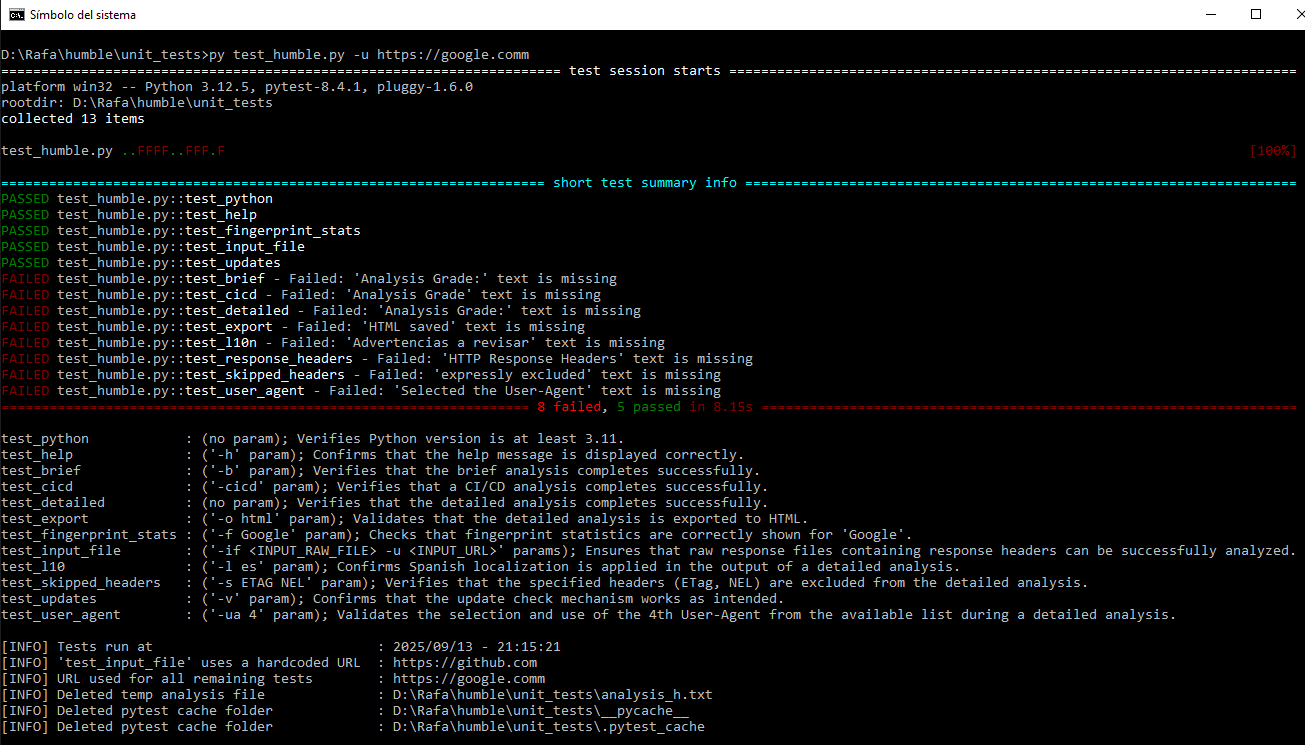
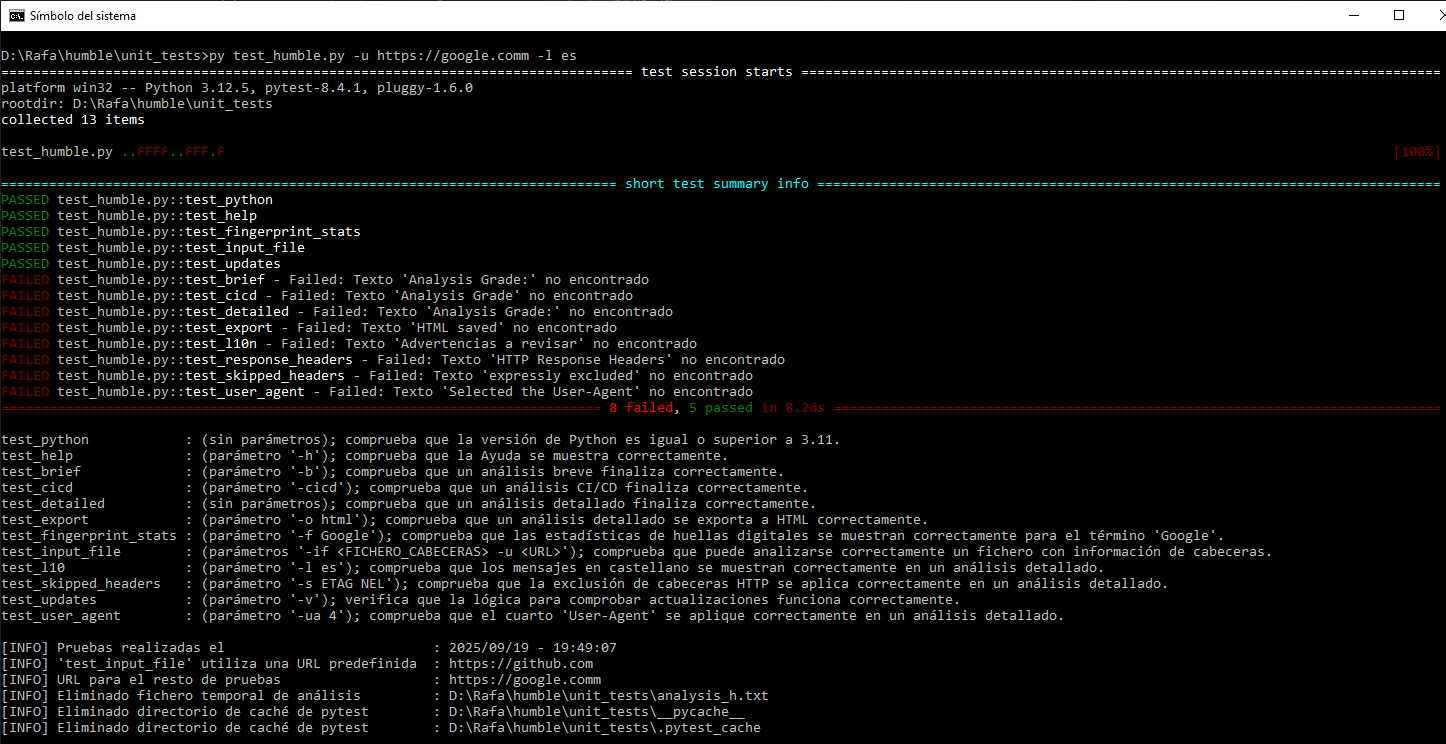
Minor: Screenshots updated

diff --git a/README.md b/README.md
@@ -415,7 +415,7 @@ $ python3 test_humble.py -u <URL>
 
 <img src="https://github.com/rfc-st/humble/blob/master/screenshots/humble_unit_tests_ok.PNG" alt="(Linux) - All tests passed successfully">
 
-.: .: (Windows) - Some tests failed.<br />
+.: (Windows) - Some tests failed, in Spanish.<br />
 ```
 $ cd <humble dir>
 $ cd unit_tests
